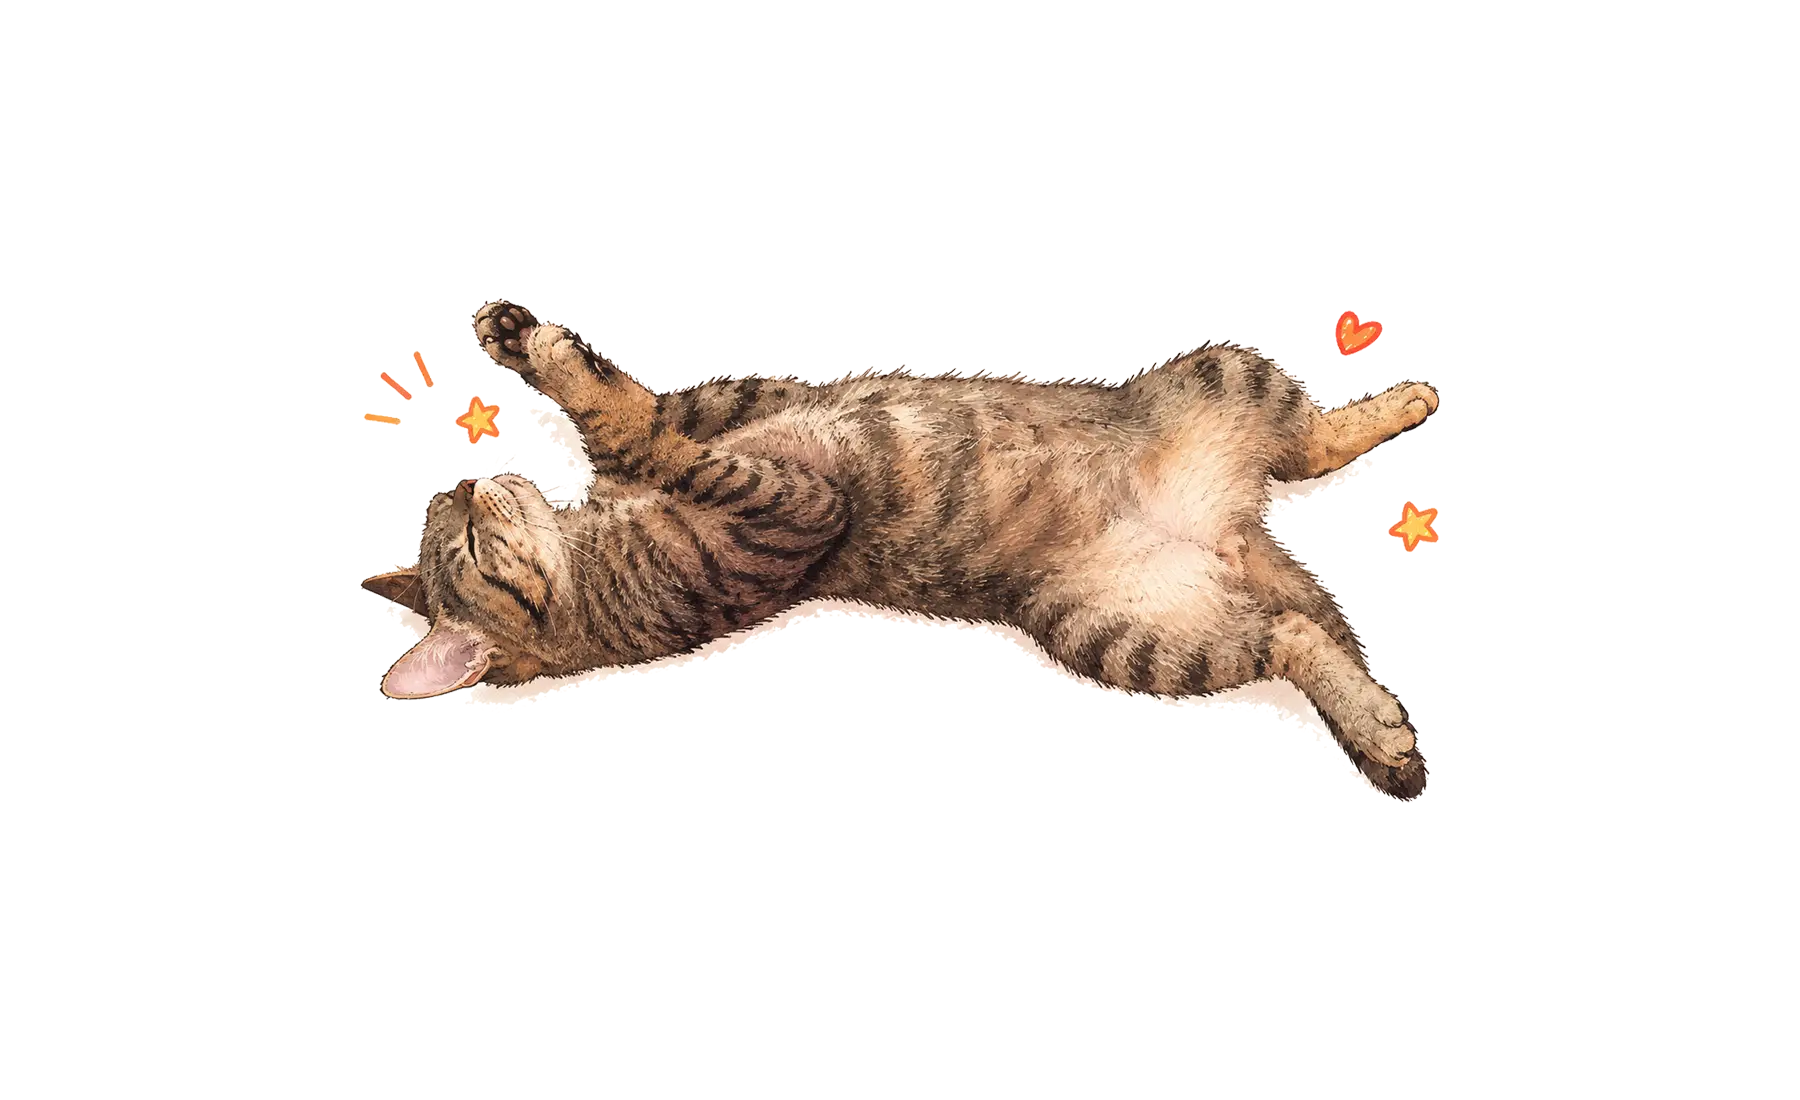
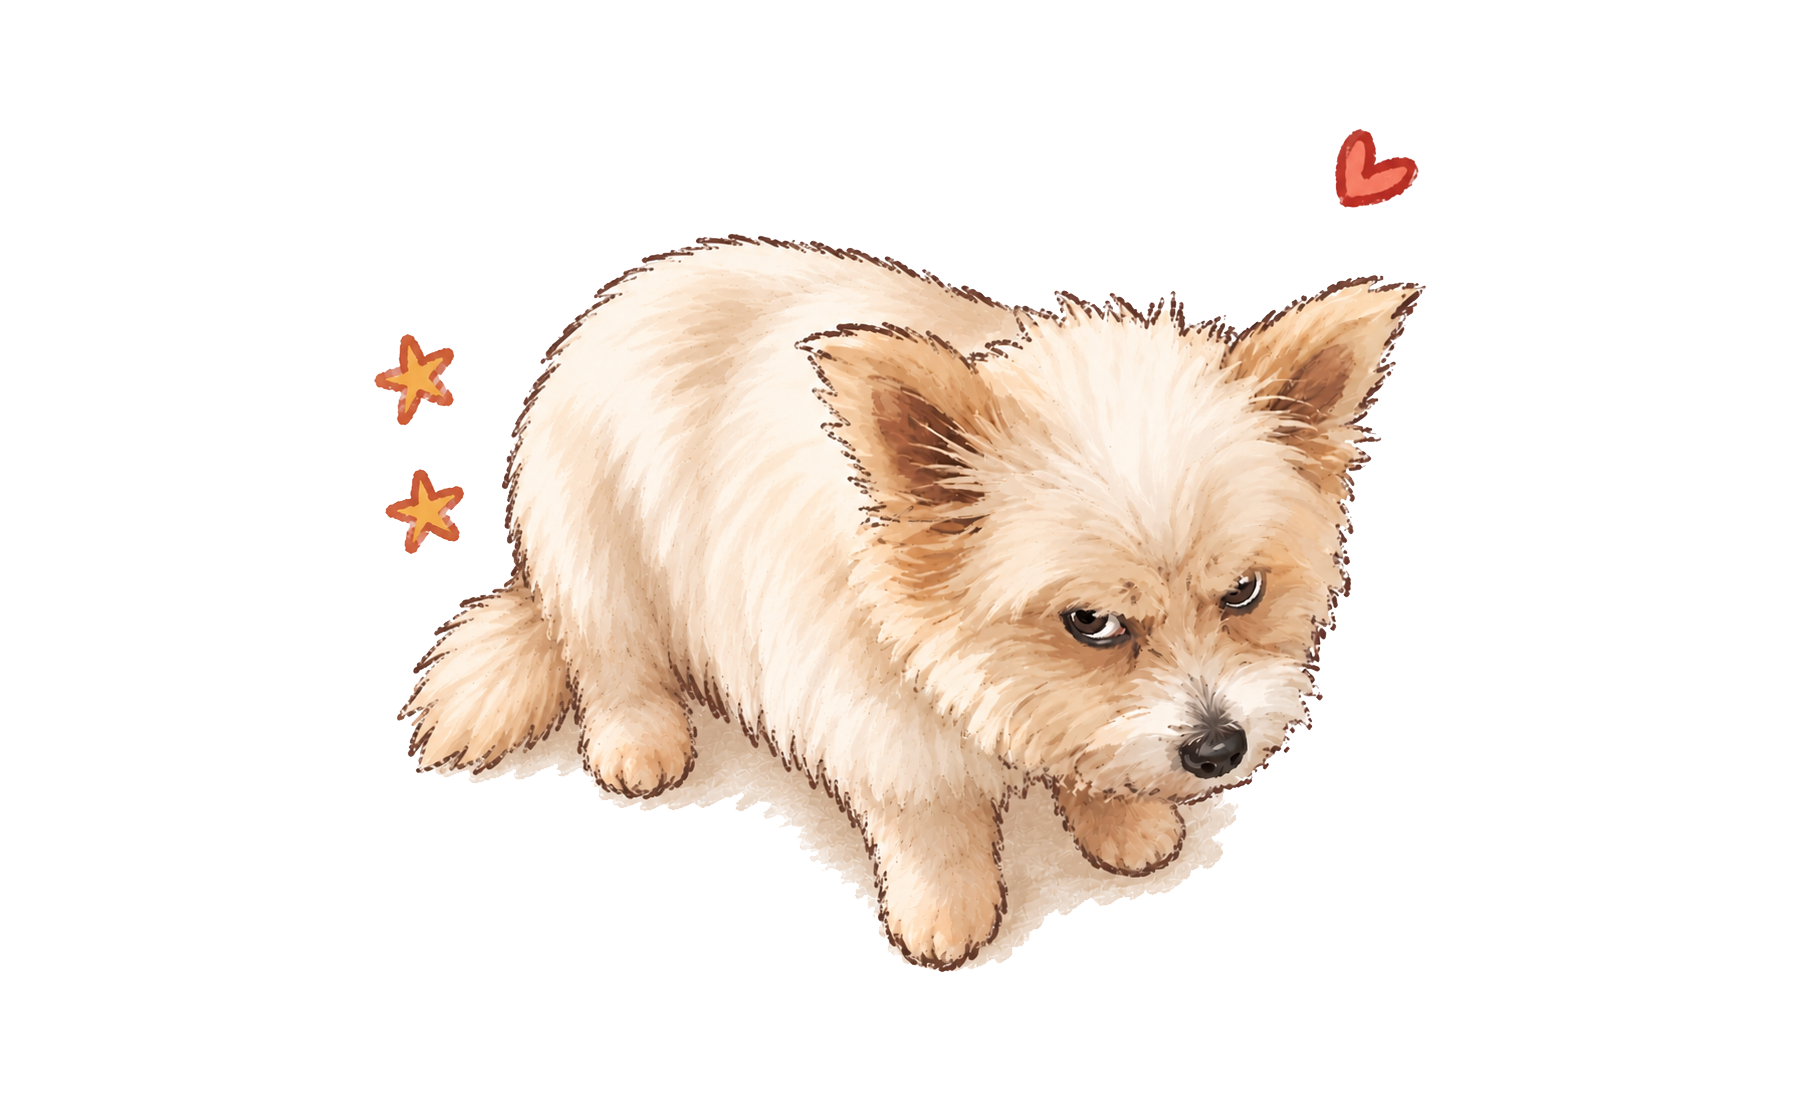
fix audio vercel

Changed region(s): [[0.1867, 0.2164, 0.8089, 0.8964], [0.7156, 0.1236, 0.8089, 0.1855]]

diff --git a/src/config/levels.js b/src/config/levels.js
@@ -5,18 +5,18 @@ const SPAWNER_LEVEL = {
     UPGRADE_1: "UPGRADE_1",
     UPGRADE_2: "UPGRADE_2",
     UPGRADE_3: "UPGRADE_3",
-    UPGRADE_HORROR: "UPGRADE_HORROR",
+    UPGRADE_4: "UPGRADE_4",
 };
 
 const SPAWNER_CONFIG = {
     [SPAWNER_LEVEL.NONE]: null,
     [SPAWNER_LEVEL.BASIC]: {
         triggerMatches: 18,
-        normalPairs: 2,
+        normalPairs: 3,
         iceFirePairs: 0,
     },
     [SPAWNER_LEVEL.UPGRADE_1]: {
-        triggerMatches: 18,
+        triggerMatches: 15,
         normalPairs: 3,
         iceFirePairs: 0,
     },
@@ -26,12 +26,12 @@ const SPAWNER_CONFIG = {
         iceFirePairs: 1,
     },
     [SPAWNER_LEVEL.UPGRADE_3]: {
-        triggerMatches: 12,
+        triggerMatches: 15,
         normalPairs: 1,
         iceFirePairs: 2,
     },
-    [SPAWNER_LEVEL.UPGRADE_HORROR]: {
-        triggerMatches: 9,
+    [SPAWNER_LEVEL.UPGRADE_4]: {
+        triggerMatches: 12,
         normalPairs: 1,
         iceFirePairs: 2,
     },
@@ -41,8 +41,8 @@ const LEVELS = [
     {
         id: 1,
         name: "Level 1",
-        timeLimit: 600,
-        tileTypeCount: 10,
+        timeLimit: 300,
+        tileTypeCount: 8,
         iceFirePairs: 0,
         spawnerLevel: SPAWNER_LEVEL.NONE,
     },
@@ -50,9 +50,9 @@ const LEVELS = [
         id: 2,
         name: "Level 2",
         timeLimit: 660,
-        tileTypeCount: 12,
-        iceFirePairs: 4,
-        spawnerLevel: SPAWNER_LEVEL.NONE,
+        tileTypeCount: 8,
+        iceFirePairs: 8,
+        spawnerLevel: SPAWNER_LEVEL.BASIC,
     },
     {
         id: 3,
@@ -60,39 +60,31 @@ const LEVELS = [
         timeLimit: 720,
         tileTypeCount: 12,
         iceFirePairs: 8,
-        spawnerLevel: SPAWNER_LEVEL.BASIC,
+        spawnerLevel: SPAWNER_LEVEL.UPGRADE_1,
     },
     {
         id: 4,
         name: "Level 4",
-        timeLimit: 840,
-        tileTypeCount: 14,
-        iceFirePairs: 10,
-        spawnerLevel: SPAWNER_LEVEL.UPGRADE_1,
-    },
-    {
-        id: 5,
-        name: "Level 5",
-        timeLimit: 960,
+        timeLimit: 1100,
         tileTypeCount: 16,
         iceFirePairs: 12,
         spawnerLevel: SPAWNER_LEVEL.UPGRADE_2,
     },
     {
-        id: 6,
-        name: "Level 6",
+        id: 5,
+        name: "Level 5",
         timeLimit: 1020,
-        tileTypeCount: 18,
-        iceFirePairs: 14,
+        tileTypeCount: 16,
+        iceFirePairs: 16,
         spawnerLevel: SPAWNER_LEVEL.UPGRADE_3,
     },
     {
-        id: 7,
-        name: "Level Tối Thượng",
-        timeLimit: 1080,
+        id: 6,
+        name: "Level 6",
+        timeLimit: 1100,
         tileTypeCount: 20,
-        iceFirePairs: 16,
-        spawnerLevel: SPAWNER_LEVEL.UPGRADE_HORROR,
+        iceFirePairs: 20,
+        spawnerLevel: SPAWNER_LEVEL.UPGRADE_4,
     },
 ];
 

diff --git a/src/managers/AudioManager.js b/src/managers/AudioManager.js
@@ -29,8 +29,6 @@ class AudioManager {
     }
 
     async loadSfx() {
-        this.init();
-
         const sfxFiles = {
             click: "/assets/audio/sfx/click.wav",
             game_over: "/assets/audio/sfx/game_over.wav",
@@ -41,12 +39,15 @@ class AudioManager {
             spawn: "/assets/audio/sfx/spawn.wav",
         };
 
+        const AudioCtx = window.AudioContext || window.webkitAudioContext;
+        const tempCtx = AudioCtx ? new AudioCtx() : null;
+
         const loadPromises = Object.entries(sfxFiles).map(async ([name, url]) => {
             try {
                 const response = await fetch(url);
                 const arrayBuffer = await response.arrayBuffer();
-                if (this.audioContext) {
-                    const audioBuffer = await this.audioContext.decodeAudioData(arrayBuffer);
+                if (tempCtx) {
+                    const audioBuffer = await tempCtx.decodeAudioData(arrayBuffer);
                     this.sounds.set(name, audioBuffer);
                 }
             } catch (error) {
@@ -55,6 +56,9 @@ class AudioManager {
         });
 
         await Promise.all(loadPromises);
+        if (tempCtx) {
+            tempCtx.close();
+        }
     }
 
     playSfx(name) {

diff --git a/src/main.js b/src/main.js
@@ -432,11 +432,14 @@ async function bootstrap() {
 
     const unlockAudio = () => {
         AudioManager.init();
+        if (!AudioManager.bgmAudio) {
+            AudioManager.playRandomBgm();
+        }
         document.removeEventListener("pointerdown", unlockAudio);
     };
     document.addEventListener("pointerdown", unlockAudio);
 
-    // setupLevelCheatKeys();
+    setupLevelCheatKeys();
 
     startNewGame();
 }
